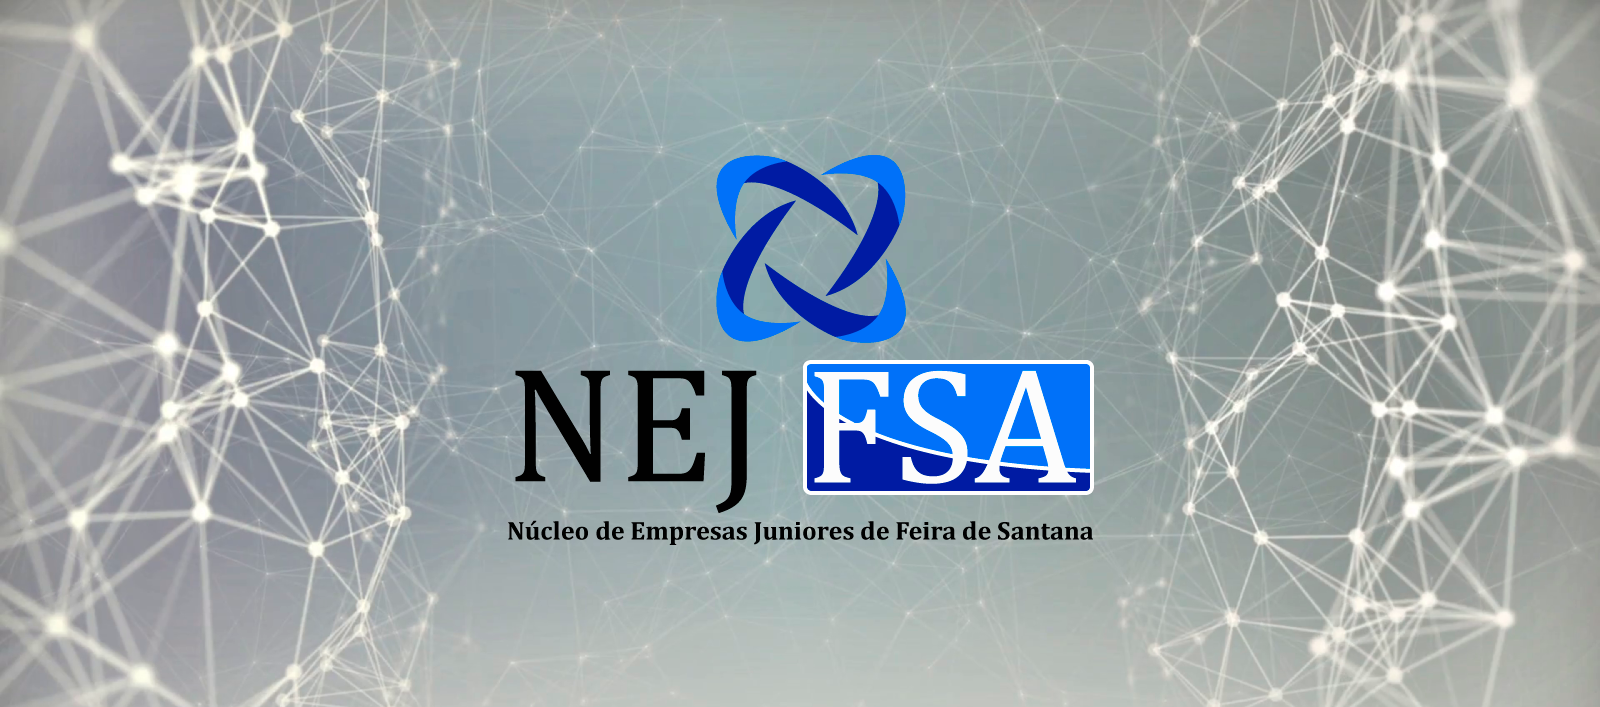
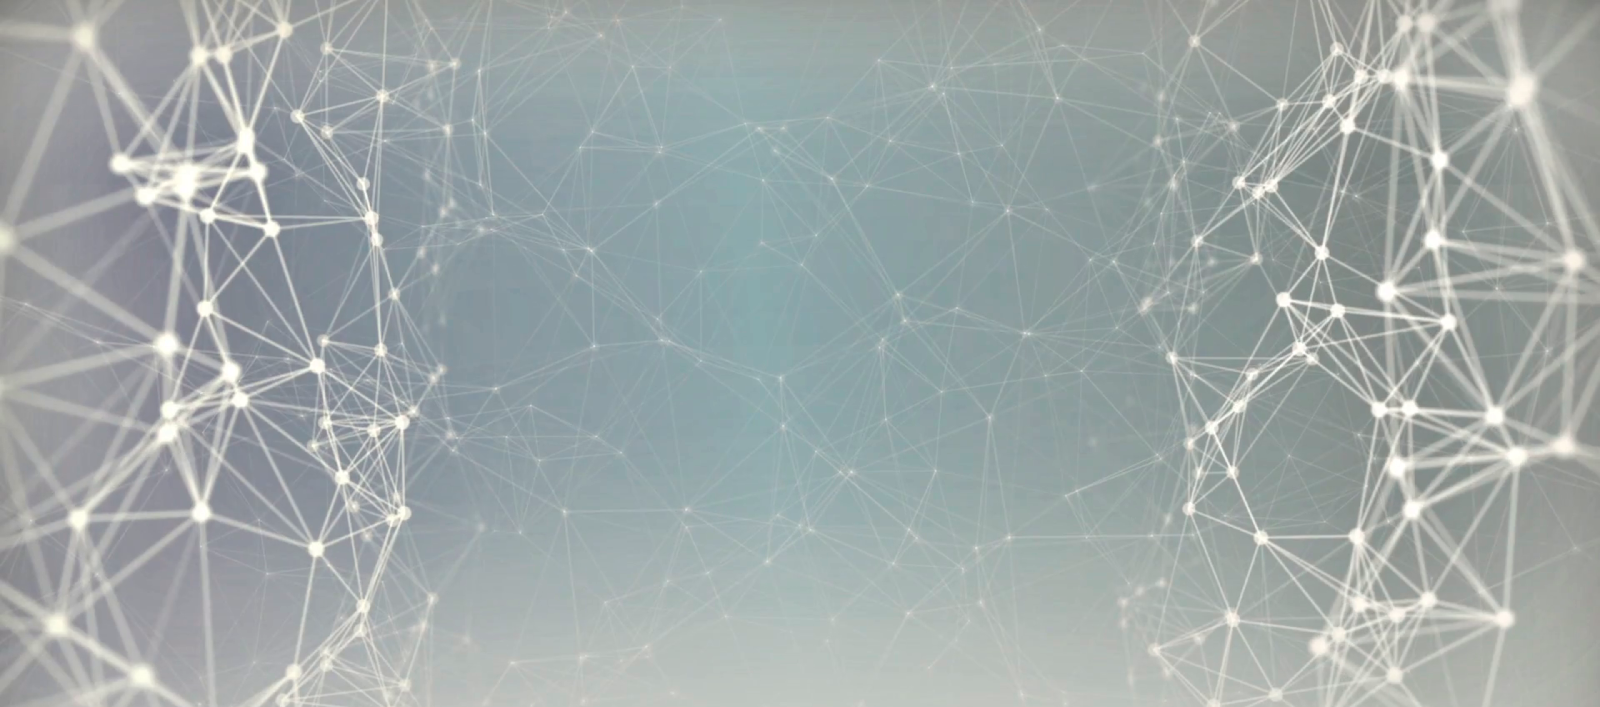
Melhorando Responsividade

Changed region(s): [[0.3125, 0.2178, 0.6875, 0.7779]]

diff --git a/_site/index.html b/_site/index.html
@@ -51,23 +51,25 @@
 </nav>
   <div id="particles-js" style="background-image: url(assets/background.png)">
   <div class="header">
-      <h1>
-        <span class="site-title">  </span>
-        <span class="site-description">  </span>
-      </h1>
-      <div class="header-icons" style="margin-top: 370px">
-        <a aria-label="Send email" href="mailto: nejfeira.dex@gmail.com"><i class="icon fa fa-envelope"></i></a>
-        <a aria-label="My Instagram" target="_blank" href="https://www.instagram.com/nejfeira/"><i class="icon fa fa-instagram"
-                aria-hidden="true"></i></a>
-        <a aria-label="My Facebook" target="_blank" href="https://www.facebook.com/nejfeira/"><i class="icon fa fa-facebook"
-                aria-hidden="true"></i></a>
+    <div style="margin-top: 100px">
+      <img class="img-fluid" src="assets/logo.png" alt="" style="max-height: 400px; min-width: 300px;">
     </div>
-      <div class="header-links">
-      </div>
+    <h1>
+      <span class="site-title"> </span>
+      <span class="site-description"> </span>
+    </h1>
+    <div class="header-icons" style="margin-top: -100px">
+      <a aria-label="Send email" href="mailto: nejfeira.dex@gmail.com"><i class="icon fa fa-envelope"></i></a>
+      <a aria-label="My Instagram" target="_blank" href="https://www.instagram.com/nejfeira/"><i class="icon fa fa-instagram"
+          aria-hidden="true"></i></a>
+      <a aria-label="My Facebook" target="_blank" href="https://www.facebook.com/nejfeira/"><i class="icon fa fa-facebook"
+          aria-hidden="true"></i></a>
+    </div>
+    <div class="header-links">
+    </div>
   </div>
   <a class="down" href="#about" data-scroll><i class="icon fa fa-chevron-down" aria-hidden="true"></i></a>
 </div>
-
   <section id="about">
     <br>
     <div class="user-details">
@@ -85,7 +87,7 @@
 
 
 <h1 style="text-align: center">Diretoria</h1>
-<div style="background-image: url(assets/background2.png);background-attachment: fixed;">
+<div style="background-image: url(assets/background.png);background-attachment: fixed">
 
 
     <!-- Modal -->
@@ -115,7 +117,7 @@
     <div class="container">
 
 
-        <div id="multi-item-example" class="carousel slide carousel-multi-item" data-ride="carousel">
+        <div id="multi-item-example" class="carousel slide carousel-multi-item" data-ride="carousel" style="min-height: 300px">
 
             <!--Controls->
             <div class="controls-top">
@@ -157,14 +159,14 @@
                         
                         
 
-                        <div class="col-md-3">
+                        <div class="col-6 col-md-3">
                             <a class="card-link" data-toggle="modal" data-target="#exampleModal"
                                 data-vinculo="Diretoria da Cozinha" data-texto="Sou Master das culinárias do Mandacaru Hackerspace. Faço um ótimo arroz com calabresa, mas esqueço na geladeira por uma semana." data-nome="Marcelo Bião"
                                 data-imagem=assets/palestrantes/marcelo.png>
                                 <div class="card mb-2" style="width: 100%">
                                     <img class="card-img-top" src="assets/palestrantes/marcelo.png" alt="Marcelo Bião"
                                         style="height: 100%;">
-                                    <div class="card-body" style="margin-top: -50px">
+                                    <div class="card-body d-none d-md-block" style="margin-top: -50px">
                                         <h3 class="card-title text-center" >Marcelo Bião</h3>
                                         <p class="card-subtitle text-center"> Diretoria da Cozinha </p>
                                     </div>
@@ -178,14 +180,14 @@
                         
                         
 
-                        <div class="col-md-3">
+                        <div class="col-6 col-md-3">
                             <a class="card-link" data-toggle="modal" data-target="#exampleModal"
                                 data-vinculo="Diretoria dos Armengues" data-texto="Sou Master dos paranauês do Mandacaru Hackerspace. De vez em quando, eu esqueço de enviar a arte dos eventos." data-nome="Sérgio Matos"
                                 data-imagem=assets/palestrantes/sergio.png>
                                 <div class="card mb-2" style="width: 100%">
                                     <img class="card-img-top" src="assets/palestrantes/sergio.png" alt="Sérgio Matos"
                                         style="height: 100%;">
-                                    <div class="card-body" style="margin-top: -50px">
+                                    <div class="card-body d-none d-md-block" style="margin-top: -50px">
                                         <h3 class="card-title text-center" >Sérgio Matos</h3>
                                         <p class="card-subtitle text-center"> Diretoria dos Armengues </p>
                                     </div>
@@ -199,14 +201,14 @@
                         
                         
 
-                        <div class="col-md-3">
+                        <div class="col-6 col-md-3">
                             <a class="card-link" data-toggle="modal" data-target="#exampleModal"
                                 data-vinculo="Diretoria de Marketing" data-texto="Sou Master of Cards do Mandacaru Hackerspace. Comi uma pizza de 3 queijos, fui procurar o banheiro e acabei parando em Uberlândia." data-nome="Vitor Cardim"
                                 data-imagem=assets/palestrantes/vitor.png>
                                 <div class="card mb-2" style="width: 100%">
                                     <img class="card-img-top" src="assets/palestrantes/vitor.png" alt="Vitor Cardim"
                                         style="height: 100%;">
-                                    <div class="card-body" style="margin-top: -50px">
+                                    <div class="card-body d-none d-md-block" style="margin-top: -50px">
                                         <h3 class="card-title text-center" >Vitor Cardim</h3>
                                         <p class="card-subtitle text-center"> Diretoria de Marketing </p>
                                     </div>
@@ -220,14 +222,14 @@
                         
                         
 
-                        <div class="col-md-3">
+                        <div class="col-6 col-md-3">
                             <a class="card-link" data-toggle="modal" data-target="#exampleModal"
                                 data-vinculo="Diretoria de Apoios" data-texto="Sou Master arteiro do Mandacaru Hackerspace. Sou o maior nome representante do terraplanismo no globo." data-nome="Leo Melo"
                                 data-imagem=assets/palestrantes/leonardo.png>
                                 <div class="card mb-2" style="width: 100%">
                                     <img class="card-img-top" src="assets/palestrantes/leonardo.png" alt="Leo Melo"
                                         style="height: 100%;">
-                                    <div class="card-body" style="margin-top: -50px">
+                                    <div class="card-body d-none d-md-block" style="margin-top: -50px">
                                         <h3 class="card-title text-center" >Leo Melo</h3>
                                         <p class="card-subtitle text-center"> Diretoria de Apoios </p>
                                     </div>
@@ -248,14 +250,14 @@
                     <div class="row justify-content-center">
                         
 
-                        <div class="col-md-3">
+                        <div class="col-6 col-md-3">
                             <a class="card-link" data-toggle="modal" data-target="#exampleModal"
                                 data-vinculo="Presidente" data-texto="Sou CEO do Mandacaru Hackerspace. Procuro meios de invadir a conta do telegram do Ministro da Justiça. Fogo nos racistas!" data-nome="Fábio Bispo"
                                 data-imagem=assets/palestrantes/fabio.png>
                                 <div class="card mb-2" style="width: 100%">
                                     <img class="card-img-top" src="assets/palestrantes/fabio.png" alt="Fábio Bispo"
                                         style="height: 100%;">
-                                    <div class="card-body" style="margin-top: -50px">
+                                    <div class="card-body d-none d-md-block" style="margin-top: -50px">
                                         <h3 class="card-title text-center" >Fábio Bispo</h3>
                                         <p class="card-subtitle text-center"> Presidente </p>
                                     </div>
@@ -323,14 +325,14 @@
 
 
 <h1 style="text-align: center">Parceiros</h1>
-<div style="background-image: url(assets/background2.png);background-attachment: fixed;">
+<div style="background-image: url(assets/background.png);background-attachment: fixed">
 
 
     <br>
     <div class="container">
 
 
-        <div id="multi-item-example2" class="carousel slide carousel-multi-item" data-ride="carousel">
+        <div id="multi-item-example2" class="carousel slide carousel-multi-item" data-ride="carousel" style="min-height: 300px">
 
             <!--Controls-->
             <a class="carousel-control-prev" href="#multi-item-example2" role="button" data-slide="prev"
@@ -355,7 +357,7 @@
                         
                         
 
-                        <div class="col-md-4">
+                        <div class="col-6 col-md-4 mt-2">
                             <a class="card-link" href="https://www.instagram.com/mandacaruhs/">
                                 <div style="width: 100%">
                                     <img class="card-img-top" src="assets/palestrantes/marcelo.png" alt="Marcelo Bião"
@@ -370,7 +372,7 @@
                         
                         
 
-                        <div class="col-md-4">
+                        <div class="col-6 col-md-4 mt-2">
                             <a class="card-link" href="https://www.instagram.com/mandacaruhs/">
                                 <div style="width: 100%">
                                     <img class="card-img-top" src="assets/palestrantes/sergio.png" alt="Sérgio Matos"
@@ -385,7 +387,7 @@
                         
                         
 
-                        <div class="col-md-4">
+                        <div class="col-6 col-md-4 mt-2">
                             <a class="card-link" href="https://www.instagram.com/mandacaruhs/">
                                 <div style="width: 100%">
                                     <img class="card-img-top" src="assets/palestrantes/vitor.png" alt="Vitor Cardim"
@@ -407,7 +409,7 @@
                     <div class="row justify-content-center">
                         
 
-                        <div class="col-md-4">
+                        <div class="col-6 col-md-4 mt-2">
                             <a class="card-link" href="https://www.instagram.com/mandacaruhs/">
                                 <div style="width: 100%">
                                     <img class="card-img-top" src="assets/palestrantes/leonardo.png" alt="Leo Melo"
@@ -422,7 +424,7 @@
                         
                         
 
-                        <div class="col-md-4">
+                        <div class="col-6 col-md-4 mt-2">
                             <a class="card-link" href="https://www.instagram.com/mandacaruhs/">
                                 <div style="width: 100%">
                                     <img class="card-img-top" src="assets/palestrantes/fabio.png" alt="Fábio Bispo"
@@ -451,7 +453,7 @@
   
   <section id="contato">
     <br>
-    <div style=" margin-bottom: -90px ;background-image: url(assets/background2.png)">
+    <div style=" margin-bottom: -90px ;background-image: url(assets/background.png)">
   <h1 class="text-center text-light">Contato</h1>
   <div class="header-icons">
     <a aria-label="Send email" href="mailto: nejfeira.dex@gmail.com"><i class="icon fa fa-envelope"></i></a>

diff --git a/_includes/header.html b/_includes/header.html
@@ -1,18 +1,21 @@
 <div id="particles-js" style="background-image: url({{ site.imagem }})">
   <div class="header">
-      <h1>
-        <span class="site-title">{% if site.imagem %}  {%else%}{{ site.nome}}{% endif %}</span>
-        <span class="site-description">{% if site.imagem %}  {%else%}{{ site.descricao}}{% endif %}</span>
-      </h1>
-      <div class="header-icons" style="margin-top: 370px">
-        <a aria-label="Send email" href="mailto: {{ site.contato_email }}"><i class="icon fa fa-envelope"></i></a>
-        <a aria-label="My Instagram" target="_blank" href="{{ site.contato_instagram }}"><i class="icon fa fa-instagram"
-                aria-hidden="true"></i></a>
-        <a aria-label="My Facebook" target="_blank" href="{{ site.contato_facebook }}"><i class="icon fa fa-facebook"
-                aria-hidden="true"></i></a>
+    <div style="margin-top: 100px">
+      <img class="img-fluid" src="{{ site.imagem_logo}}" alt="" style="max-height: 400px; min-width: 300px;">
     </div>
-      <div class="header-links">
-      </div>
+    <h1>
+      <span class="site-title">{% if site.imagem_logo %} {%else%}{{ site.nome}}{% endif %}</span>
+      <span class="site-description">{% if site.imagem_logo %} {%else%}{{ site.descricao}}{% endif %}</span>
+    </h1>
+    <div class="header-icons" style="margin-top: -100px">
+      <a aria-label="Send email" href="mailto: {{ site.contato_email }}"><i class="icon fa fa-envelope"></i></a>
+      <a aria-label="My Instagram" target="_blank" href="{{ site.contato_instagram }}"><i class="icon fa fa-instagram"
+          aria-hidden="true"></i></a>
+      <a aria-label="My Facebook" target="_blank" href="{{ site.contato_facebook }}"><i class="icon fa fa-facebook"
+          aria-hidden="true"></i></a>
+    </div>
+    <div class="header-links">
+    </div>
   </div>
   <a class="down" href="#about" data-scroll><i class="icon fa fa-chevron-down" aria-hidden="true"></i></a>
 </div>

diff --git a/_includes/carouselDir.html b/_includes/carouselDir.html
@@ -2,7 +2,7 @@
 
 
 <h1 style="text-align: center">Diretoria</h1>
-<div style="background-image: url({{site.imagem_conteudo}});background-attachment: fixed;">
+<div style="background-image: url({{site.imagem}});background-attachment: fixed">
 
 
     <!-- Modal -->
@@ -32,7 +32,7 @@
     <div class="container">
 
 
-        <div id="multi-item-example" class="carousel slide carousel-multi-item" data-ride="carousel">
+        <div id="multi-item-example" class="carousel slide carousel-multi-item" data-ride="carousel" style="min-height: 300px">
 
             <!--Controls->
             <div class="controls-top">
@@ -81,14 +81,14 @@
                     <div class="row justify-content-center">
                         {% endif %}
 
-                        <div class="col-md-3">
+                        <div class="col-6 col-md-3">
                             <a class="card-link" data-toggle="modal" data-target="#exampleModal"
                                 data-vinculo="{{i.vinculo}}" data-texto="{{i.texto}}" data-nome="{{i.nome}}"
                                 data-imagem={{i.imagem}}>
                                 <div class="card mb-2" style="width: 100%">
                                     <img class="card-img-top" src="{{ i.imagem }}" alt="{{i.nome}}"
                                         style="height: 100%;">
-                                    <div class="card-body" style="margin-top: -50px">
+                                    <div class="card-body d-none d-md-block" style="margin-top: -50px">
                                         <h3 class="card-title text-center" >{{ i.nome }}</h3>
                                         <p class="card-subtitle text-center"> {{i.vinculo}} </p>
                                     </div>

diff --git a/_includes/carouselPar.html b/_includes/carouselPar.html
@@ -2,14 +2,14 @@
 
 
 <h1 style="text-align: center">Parceiros</h1>
-<div style="background-image: url({{site.imagem_conteudo}});background-attachment: fixed;">
+<div style="background-image: url({{site.imagem}});background-attachment: fixed">
 
 
     <br>
     <div class="container">
 
 
-        <div id="multi-item-example2" class="carousel slide carousel-multi-item" data-ride="carousel">
+        <div id="multi-item-example2" class="carousel slide carousel-multi-item" data-ride="carousel" style="min-height: 300px">
 
             <!--Controls-->
             <a class="carousel-control-prev" href="#multi-item-example2" role="button" data-slide="prev"
@@ -41,7 +41,7 @@
                     <div class="row justify-content-center">
                         {% endif %}
 
-                        <div class="col-md-4">
+                        <div class="col-6 col-md-4 mt-2">
                             <a class="card-link" href="{{i.link}}">
                                 <div style="width: 100%">
                                     <img class="card-img-top" src="{{ i.imagem }}" alt="{{i.nome}}"

diff --git a/_includes/navbar.html b/_includes/navbar.html
@@ -1,6 +1,6 @@
 <nav class="navbar navbar-expand-lg navbar-light fixed-top" style="background-color: {{site.cor_padrao}}">
     <a class="navbar-brand ml-5" href="#">
-        <img src="{{site.imagem_logo}}" alt="logosite" style="height: 50px ">
+        <img src="{{site.imagem_nav}}" alt="logosite" style="height: 50px ">
     </a>
     <button class="navbar-toggler" type="button" data-toggle="collapse" data-target="#navbarNav"
         aria-controls="navbarNav" aria-expanded="false" aria-label="Toggle navigation">

diff --git a/_includes/contato.html b/_includes/contato.html
@@ -1,4 +1,4 @@
-<div style=" margin-bottom: -90px ;background-image: url({{site.imagem_conteudo}})">
+<div style=" margin-bottom: -90px ;background-image: url({{site.imagem}})">
   <h1 class="text-center text-light">Contato</h1>
   <div class="header-icons">
     <a aria-label="Send email" href="mailto: {{ site.contato_email }}"><i class="icon fa fa-envelope"></i></a>
